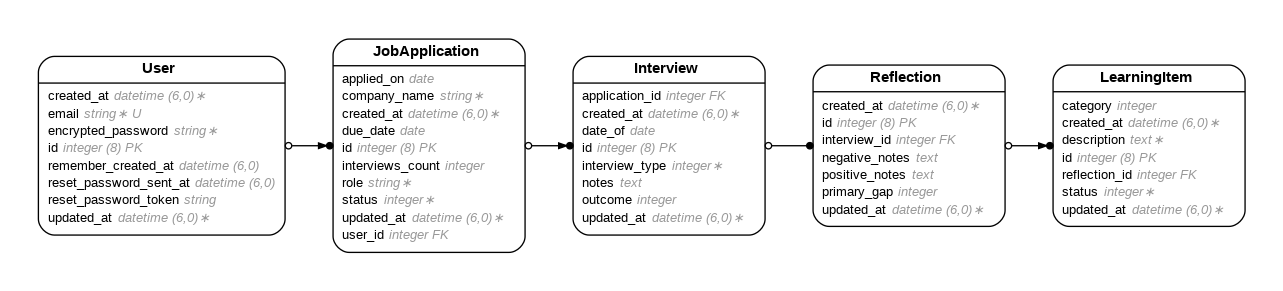
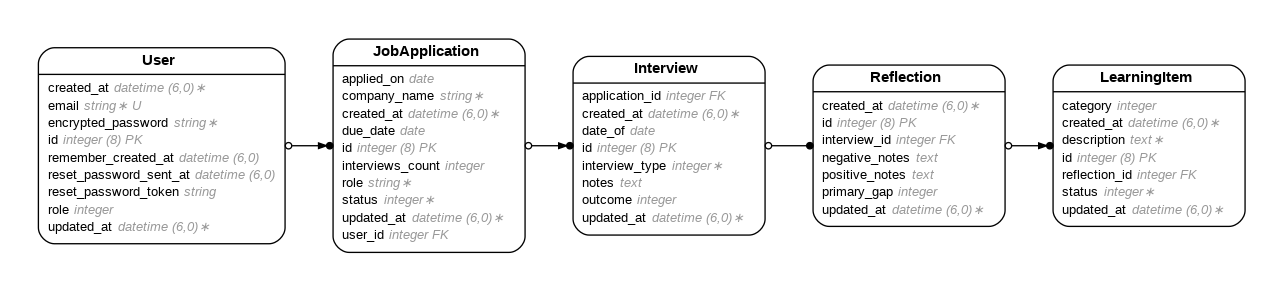
add role enum column to Users and set new records to user

Changed region(s): [[0.0312, 0.1546, 0.2182, 0.866]]

diff --git a/db/schema.rb b/db/schema.rb
@@ -10,7 +10,7 @@
 #
 # It's strongly recommended that you check this file into your version control system.
 
-ActiveRecord::Schema[8.0].define(version: 2026_01_19_154135) do
+ActiveRecord::Schema[8.0].define(version: 2026_01_20_182042) do
   # These are extensions that must be enabled in order to support this database
   enable_extension "pg_catalog.plpgsql"
 
@@ -204,6 +204,7 @@ ActiveRecord::Schema[8.0].define(version: 2026_01_19_154135) do
     t.datetime "remember_created_at"
     t.datetime "created_at", null: false
     t.datetime "updated_at", null: false
+    t.integer "role"
     t.index ["email"], name: "index_users_on_email", unique: true
     t.index ["reset_password_token"], name: "index_users_on_reset_password_token", unique: true
   end

diff --git a/app/models/user.rb b/app/models/user.rb
@@ -8,6 +8,7 @@
 #  remember_created_at    :datetime
 #  reset_password_sent_at :datetime
 #  reset_password_token   :string
+#  role                   :integer
 #  created_at             :datetime         not null
 #  updated_at             :datetime         not null
 #
@@ -21,5 +22,12 @@ class User < ApplicationRecord
   # :confirmable, :lockable, :timeoutable, :trackable and :omniauthable
   devise :database_authenticatable, :registerable,
          :recoverable, :rememberable, :validatable
+
   has_many :job_applications, class_name: "JobApplication", foreign_key: "user_id", dependent: :destroy
+
+  enum :role, [:user, :admin]
+
+  after_initialize do
+    self.role ||= "user" if new_record?
+  end
 end

diff --git a/db/migrate/20260120182042_add_role_to_users.rb b/db/migrate/20260120182042_add_role_to_users.rb
@@ -1,0 +1,5 @@
+class AddRoleToUsers < ActiveRecord::Migration[8.0]
+  def change
+    add_column :users, :role, :integer
+  end
+end
